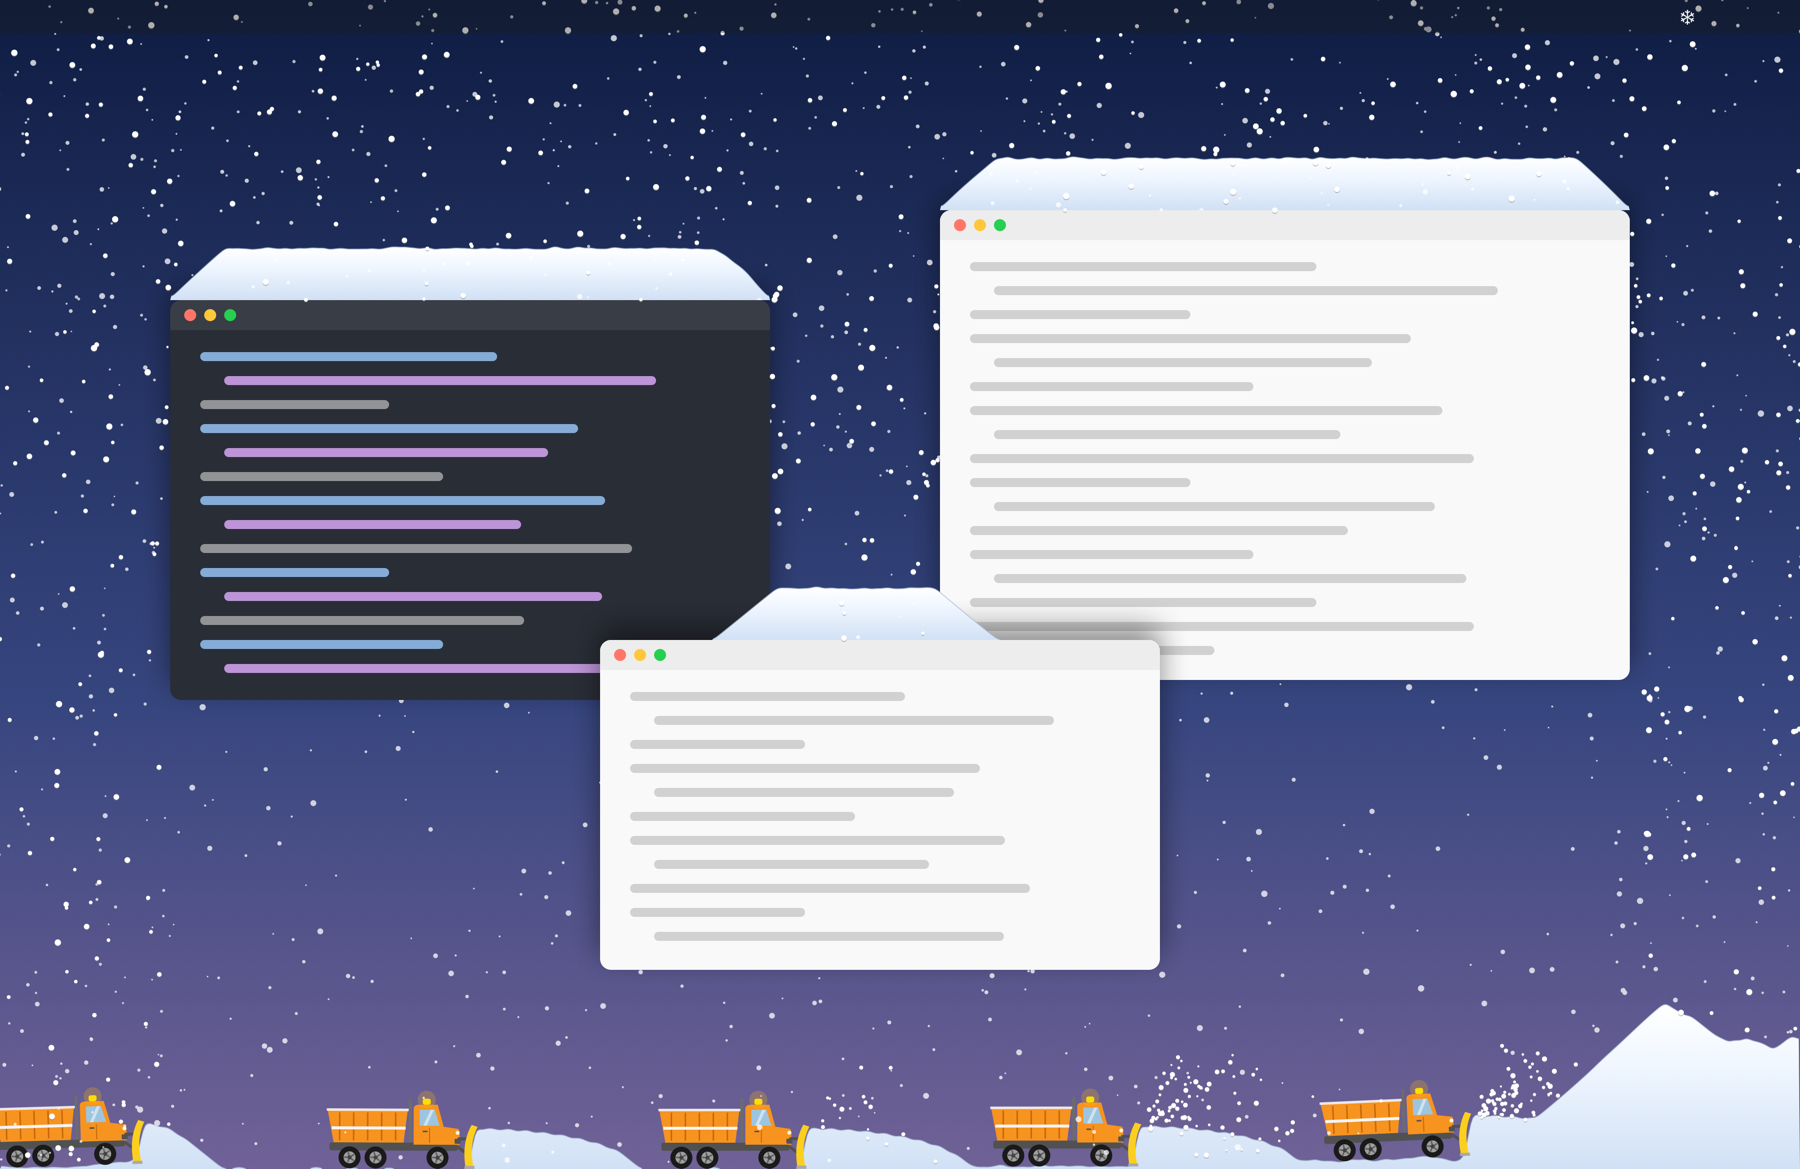
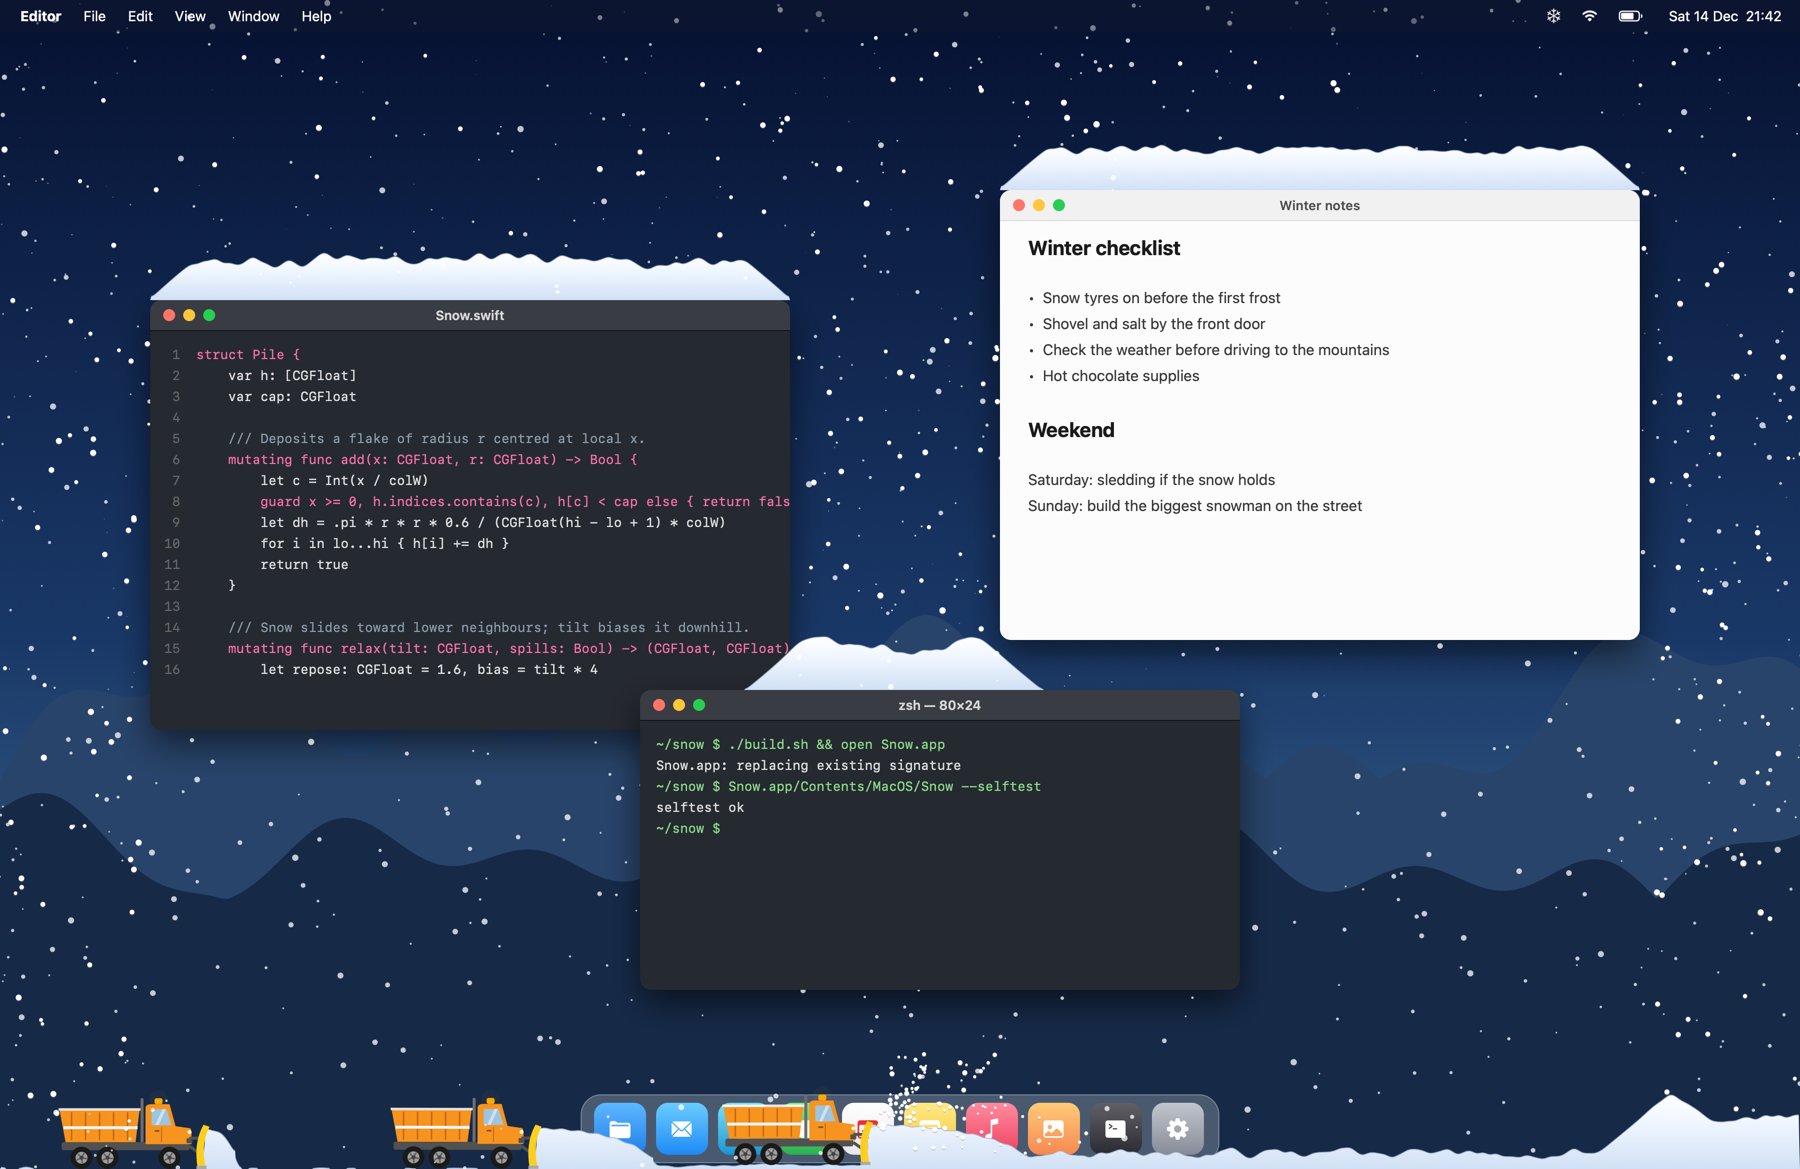
docs: make the README screenshot look like a real desktop
Synthetic render with a winter wallpaper, menu bar, Dock with generic
icons and windows with real text (a snippet of the source, the build
commands, a note), under moderate snowfall with the plow convoy at work.
No content from a real desktop.

diff --git a/README.md b/README.md
@@ -1,6 +1,6 @@
 # Snow
 
-![Snow on a desktop: snow-covered windows and a snowplow convoy clearing the bottom of the screen](docs/screenshot.png)
+![Snow on a desktop: snow-covered windows, falling snow, and a snowplow convoy clearing the drifts over the Dock](docs/screenshot.png)
 
 A tiny macOS menu-bar app that makes it snow on your desktop. Windows behave like houses: snow piles up
 on their title bars, sticks to their walls, slides off when you move them, and drifts up at the bottom
